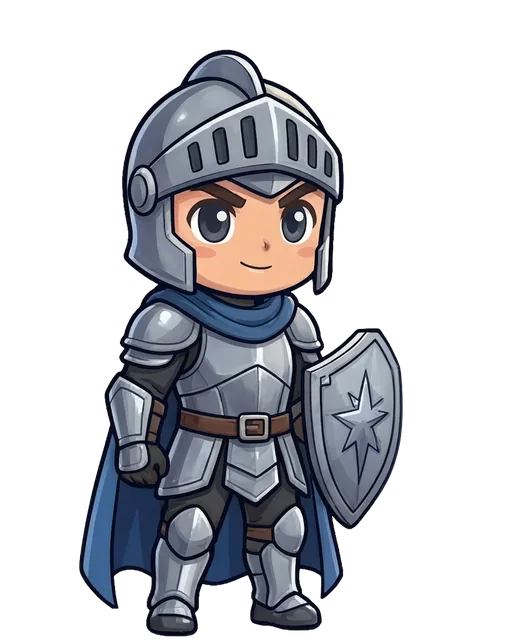
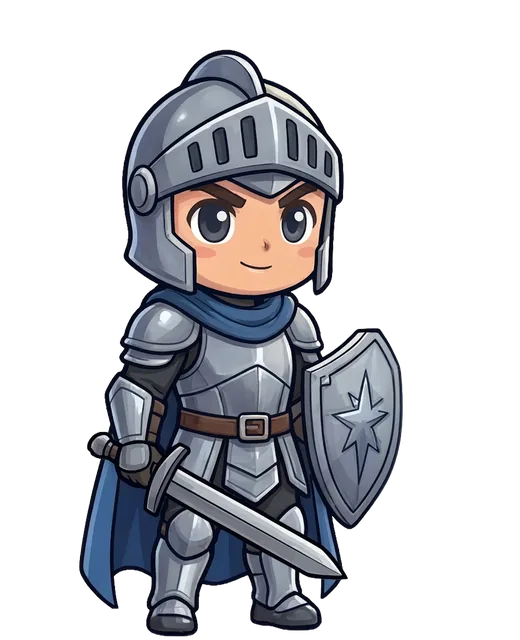
Villano: evolución visual en 10 etapas + Héroe E4 con espada
Claude-Session: https://claude.ai/code/session_01GQZyPfQcVyEekFCPmemq2f

Changed region(s): [[0.1538, 0.6562, 0.6769, 0.9062]]

diff --git a/ui/kit.js b/ui/kit.js
@@ -186,8 +186,8 @@ addEventListener('keydown', (e) => {
 // El nivel define la etapa. Cortes: 1·5·10·15·25·32·40·60·80·100. Solo interfaz: la fachada no se toca.
 export const STAGE_LEVELS = [1, 5, 10, 15, 25, 32, 40, 60, 80, 100];
 export const stageOf = (level = 1) => { let s = 1; STAGE_LEVELS.forEach((l, i) => { if (level >= l) s = i + 1; }); return s; };
-// Bandos con las 10 etapas entregadas. El Villano usa su marcador hasta que lleguen sus sprites.
-const STAGED = { hero: true, villain: false };
+// Bandos con las 10 etapas entregadas (Héroe 30/10, Villano 31/10).
+const STAGED = { hero: true, villain: true };
 const SPRITE = { hero: 'ui/img/hero.webp', villain: 'ui/img/villain.webp' };
 const fac = (f) => (f === 'villain' ? 'villain' : 'hero');
 const pad = (n) => String(n).padStart(2, '0');
